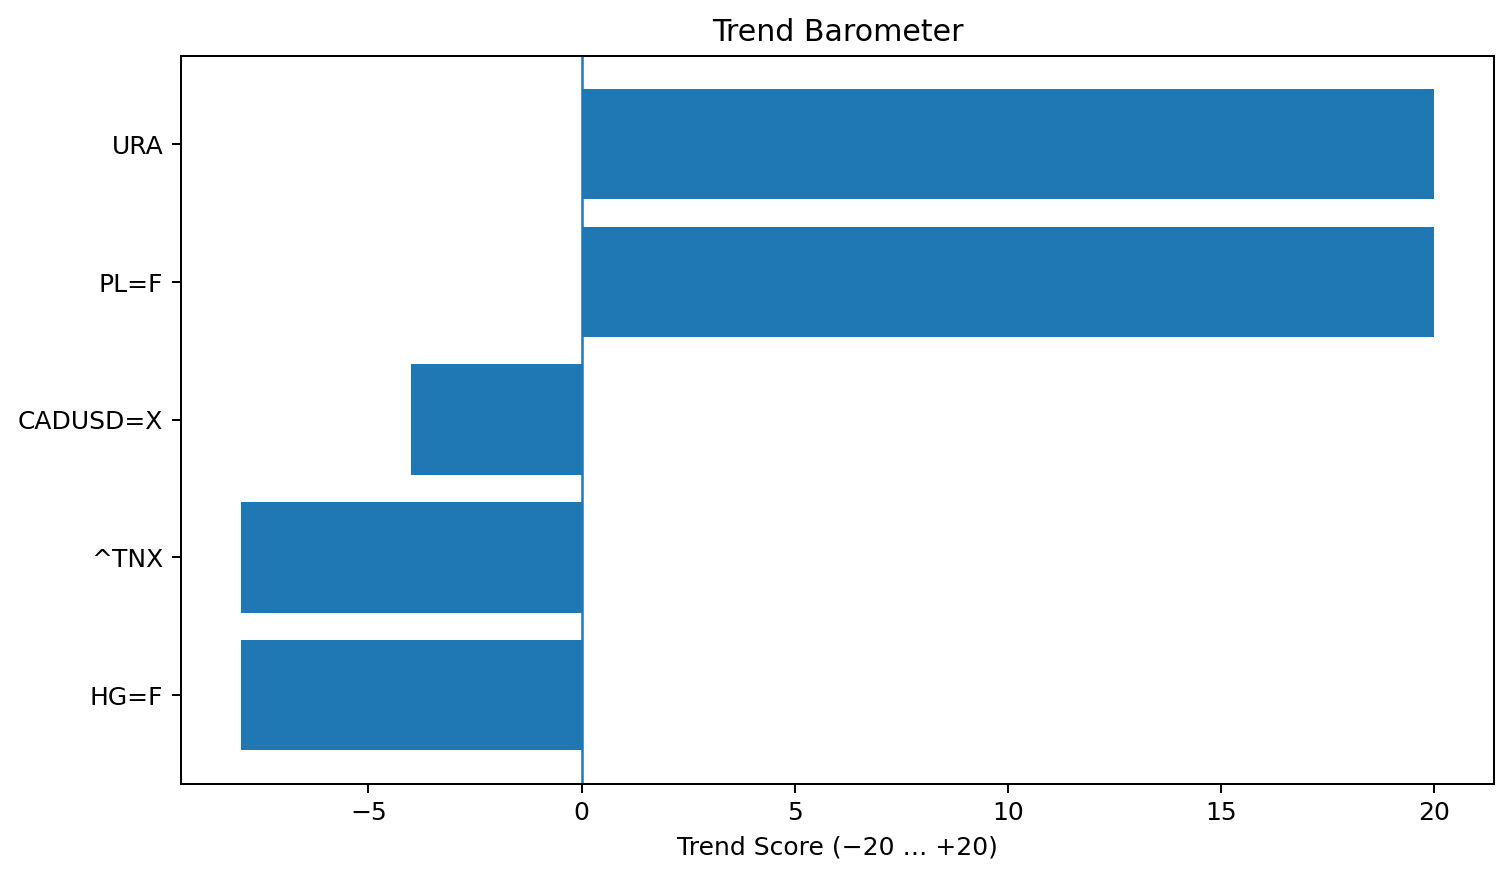
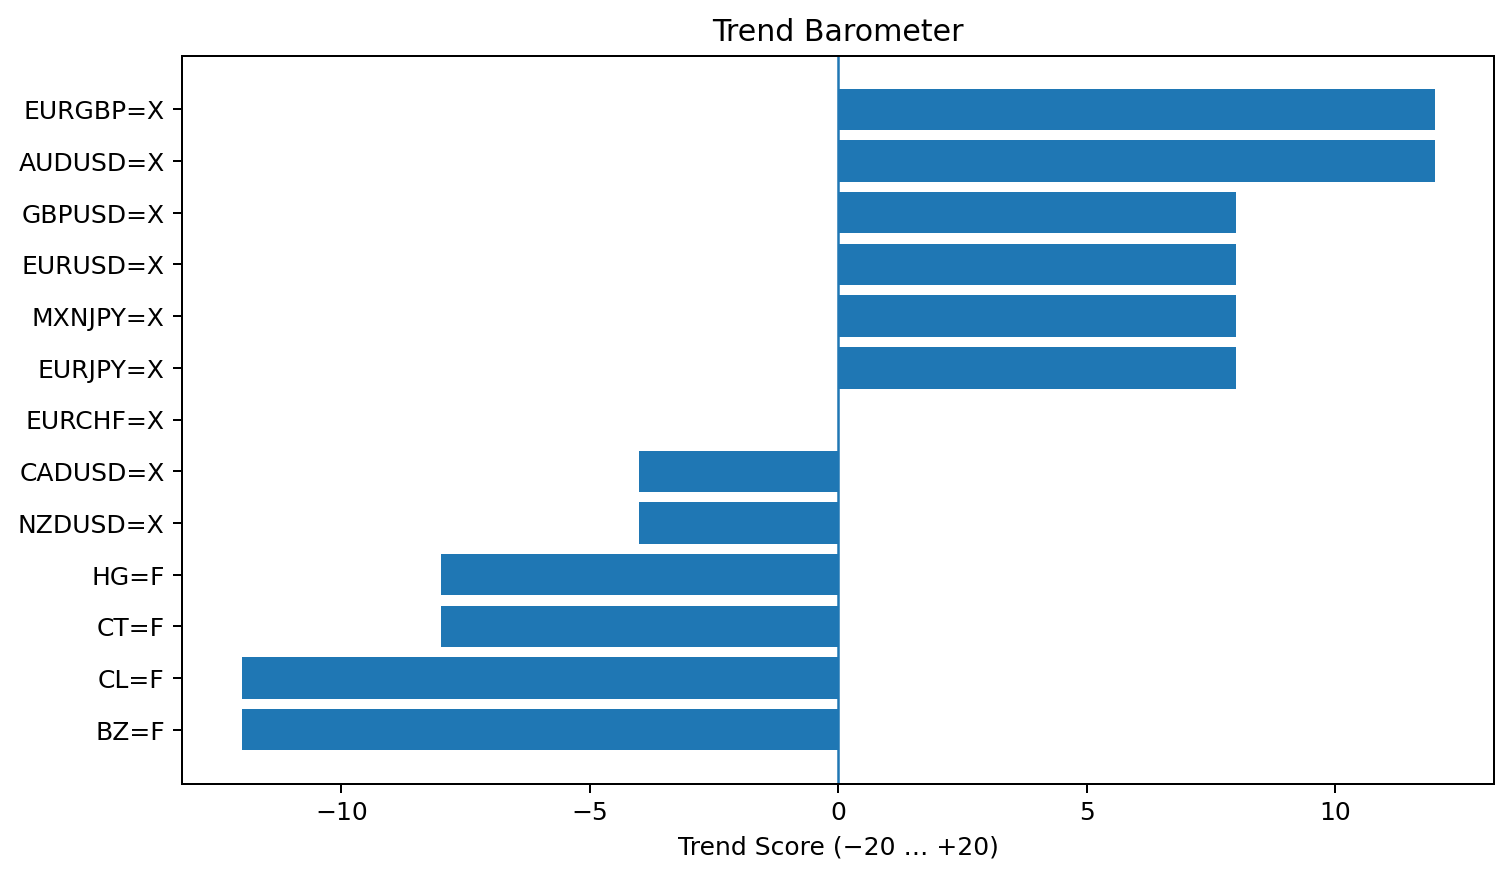
Update barometer

diff --git a/docs/index.html b/docs/index.html
@@ -43,15 +43,29 @@ img.baro { width:100%; max-width:980px; height:auto; display:block; border-radiu
   
         <div class="card">
           <div class="head">
-            <h3>^TNX</h3>
+            <h3>AUDUSD=X</h3>
             <div class="date">2025-10-01</div>
           </div>
-          <img src="charts/^TNX.png" alt="^TNX chart" loading="lazy">
+          <img src="charts/AUDUSD=X.png" alt="AUDUSD=X chart" loading="lazy">
           <div class="gridmeta">
-            <div>Close</div><b>4.106</b>
-            <div>SMA20</div><b>4.10145</b>
-            <div>SMA50</div><b>4.21418</b>
-            <div>SMA200</div><b>4.36159</b>
+            <div>Close</div><b>0.66177</b>
+            <div>SMA20</div><b>0.659893</b>
+            <div>SMA50</div><b>0.654352</b>
+            <div>SMA200</div><b>0.640247</b>
+          </div>
+        </div>
+        
+        <div class="card">
+          <div class="head">
+            <h3>BZ=F</h3>
+            <div class="date">2025-10-01</div>
+          </div>
+          <img src="charts/BZ=F.png" alt="BZ=F chart" loading="lazy">
+          <div class="gridmeta">
+            <div>Close</div><b>65.5</b>
+            <div>SMA20</div><b>67.363999</b>
+            <div>SMA50</div><b>67.8192</b>
+            <div>SMA200</div><b>69.99695</b>
           </div>
         </div>
         
@@ -62,10 +76,108 @@ img.baro { width:100%; max-width:980px; height:auto; display:block; border-radiu
           </div>
           <img src="charts/CADUSD=X.png" alt="CADUSD=X chart" loading="lazy">
           <div class="gridmeta">
-            <div>Close</div><b>0.717345</b>
-            <div>SMA20</div><b>0.723478</b>
-            <div>SMA50</div><b>0.725121</b>
+            <div>Close</div><b>0.717463</b>
+            <div>SMA20</div><b>0.723484</b>
+            <div>SMA50</div><b>0.725123</b>
             <div>SMA200</div><b>0.714437</b>
+          </div>
+        </div>
+        
+        <div class="card">
+          <div class="head">
+            <h3>CL=F</h3>
+            <div class="date">2025-10-01</div>
+          </div>
+          <img src="charts/CL=F.png" alt="CL=F chart" loading="lazy">
+          <div class="gridmeta">
+            <div>Close</div><b>61.959999</b>
+            <div>SMA20</div><b>63.3305</b>
+            <div>SMA50</div><b>64.2438</b>
+            <div>SMA200</div><b>66.8228</b>
+          </div>
+        </div>
+        
+        <div class="card">
+          <div class="head">
+            <h3>CT=F</h3>
+            <div class="date">2025-10-01</div>
+          </div>
+          <img src="charts/CT=F.png" alt="CT=F chart" loading="lazy">
+          <div class="gridmeta">
+            <div>Close</div><b>65.610001</b>
+            <div>SMA20</div><b>64.743501</b>
+            <div>SMA50</div><b>65.4338</b>
+            <div>SMA200</div><b>66.21915</b>
+          </div>
+        </div>
+        
+        <div class="card">
+          <div class="head">
+            <h3>EURCHF=X</h3>
+            <div class="date">2025-10-01</div>
+          </div>
+          <img src="charts/EURCHF=X.png" alt="EURCHF=X chart" loading="lazy">
+          <div class="gridmeta">
+            <div>Close</div><b>0.93529</b>
+            <div>SMA20</div><b>0.934756</b>
+            <div>SMA50</div><b>0.935846</b>
+            <div>SMA200</div><b>0.93904</b>
+          </div>
+        </div>
+        
+        <div class="card">
+          <div class="head">
+            <h3>EURGBP=X</h3>
+            <div class="date">2025-10-01</div>
+          </div>
+          <img src="charts/EURGBP=X.png" alt="EURGBP=X chart" loading="lazy">
+          <div class="gridmeta">
+            <div>Close</div><b>0.87029</b>
+            <div>SMA20</div><b>0.868593</b>
+            <div>SMA50</div><b>0.867181</b>
+            <div>SMA200</div><b>0.849282</b>
+          </div>
+        </div>
+        
+        <div class="card">
+          <div class="head">
+            <h3>EURJPY=X</h3>
+            <div class="date">2025-10-01</div>
+          </div>
+          <img src="charts/EURJPY=X.png" alt="EURJPY=X chart" loading="lazy">
+          <div class="gridmeta">
+            <div>Close</div><b>172.585007</b>
+            <div>SMA20</div><b>173.428099</b>
+            <div>SMA50</div><b>172.516236</b>
+            <div>SMA200</div><b>165.458653</b>
+          </div>
+        </div>
+        
+        <div class="card">
+          <div class="head">
+            <h3>EURUSD=X</h3>
+            <div class="date">2025-10-01</div>
+          </div>
+          <img src="charts/EURUSD=X.png" alt="EURUSD=X chart" loading="lazy">
+          <div class="gridmeta">
+            <div>Close</div><b>1.173709</b>
+            <div>SMA20</div><b>1.173843</b>
+            <div>SMA50</div><b>1.168318</b>
+            <div>SMA200</div><b>1.114941</b>
+          </div>
+        </div>
+        
+        <div class="card">
+          <div class="head">
+            <h3>GBPUSD=X</h3>
+            <div class="date">2025-10-01</div>
+          </div>
+          <img src="charts/GBPUSD=X.png" alt="GBPUSD=X chart" loading="lazy">
+          <div class="gridmeta">
+            <div>Close</div><b>1.348236</b>
+            <div>SMA20</div><b>1.351336</b>
+            <div>SMA50</div><b>1.347171</b>
+            <div>SMA200</div><b>1.31214</b>
           </div>
         </div>
         
@@ -76,38 +188,38 @@ img.baro { width:100%; max-width:980px; height:auto; display:block; border-radiu
           </div>
           <img src="charts/HG=F.png" alt="HG=F chart" loading="lazy">
           <div class="gridmeta">
-            <div>Close</div><b>4.8965</b>
-            <div>SMA20</div><b>4.626425</b>
-            <div>SMA50</div><b>4.66697</b>
-            <div>SMA200</div><b>4.67892</b>
+            <div>Close</div><b>4.8995</b>
+            <div>SMA20</div><b>4.626575</b>
+            <div>SMA50</div><b>4.66703</b>
+            <div>SMA200</div><b>4.678935</b>
           </div>
         </div>
         
         <div class="card">
           <div class="head">
-            <h3>PL=F</h3>
+            <h3>MXNJPY=X</h3>
             <div class="date">2025-10-01</div>
           </div>
-          <img src="charts/PL=F.png" alt="PL=F chart" loading="lazy">
+          <img src="charts/MXNJPY=X.png" alt="MXNJPY=X chart" loading="lazy">
           <div class="gridmeta">
-            <div>Close</div><b>1592.800049</b>
-            <div>SMA20</div><b>1450.240002</b>
-            <div>SMA50</div><b>1392.358003</b>
-            <div>SMA200</div><b>1140.558997</b>
+            <div>Close</div><b>7.98</b>
+            <div>SMA20</div><b>7.982481</b>
+            <div>SMA50</div><b>7.929349</b>
+            <div>SMA200</div><b>7.604513</b>
           </div>
         </div>
         
         <div class="card">
           <div class="head">
-            <h3>URA</h3>
+            <h3>NZDUSD=X</h3>
             <div class="date">2025-10-01</div>
           </div>
-          <img src="charts/URA.png" alt="URA chart" loading="lazy">
+          <img src="charts/NZDUSD=X.png" alt="NZDUSD=X chart" loading="lazy">
           <div class="gridmeta">
-            <div>Close</div><b>48.689899</b>
-            <div>SMA20</div><b>45.679495</b>
-            <div>SMA50</div><b>42.186798</b>
-            <div>SMA200</div><b>32.22137</b>
+            <div>Close</div><b>0.581903</b>
+            <div>SMA20</div><b>0.589475</b>
+            <div>SMA50</div><b>0.591394</b>
+            <div>SMA200</div><b>0.583903</b>
           </div>
         </div>
         
